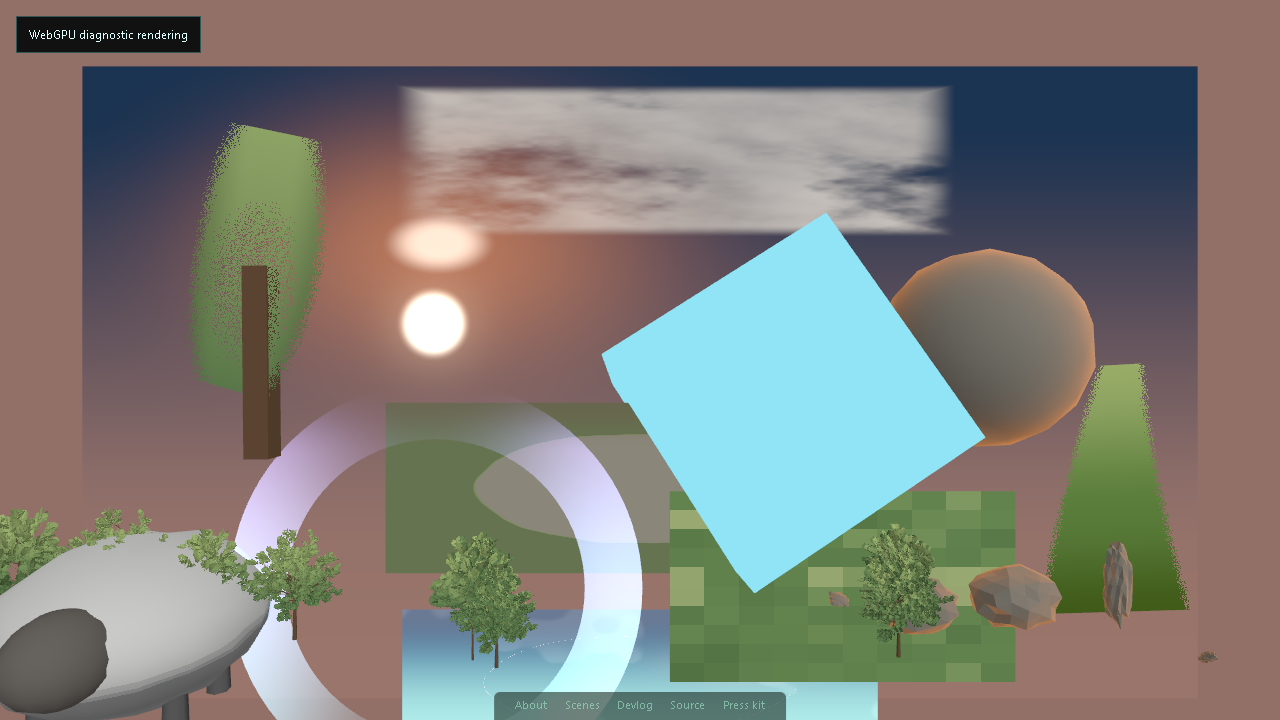
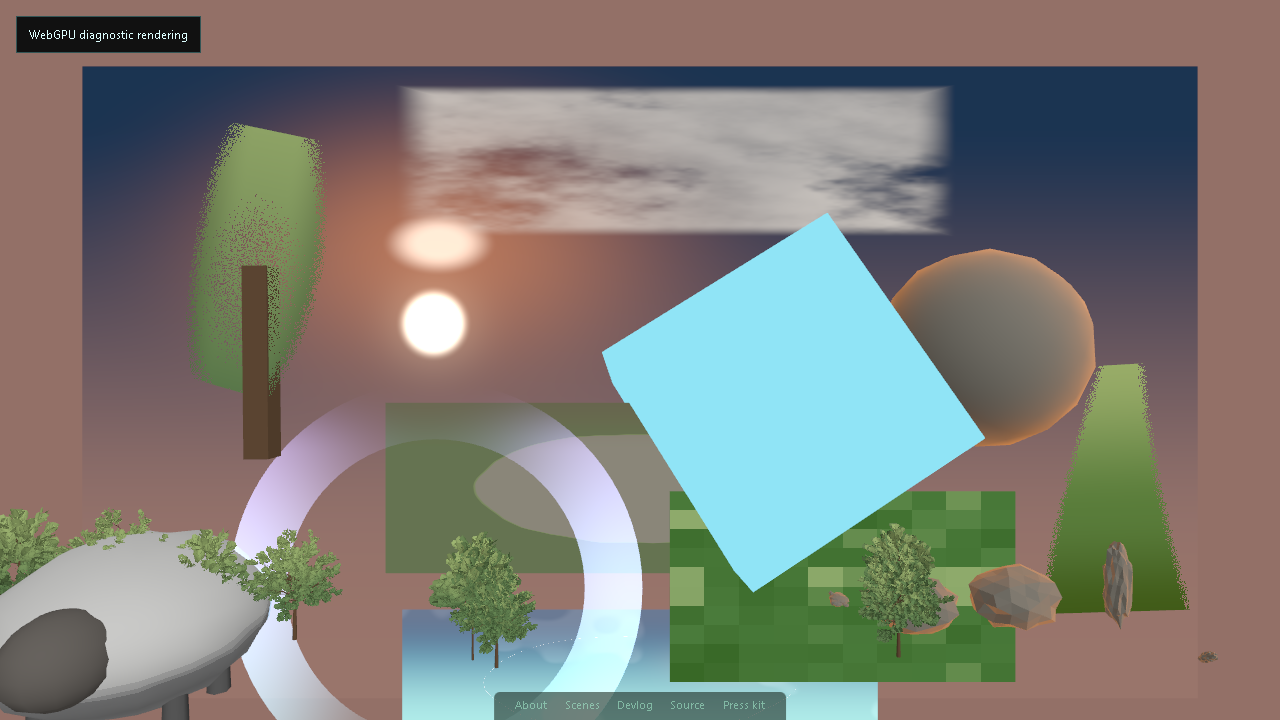
feat(konveyor): bind meadow diagnostic fog

diff --git a/js/diagnostics/webgpuDiagnostic.js b/js/diagnostics/webgpuDiagnostic.js
@@ -180,23 +180,27 @@ function createPortalRingNodeMaterial({ MeshBasicNodeMaterial, AdditiveBlending,
     return material;
 }
 
-function createMeadowQuadNodeMaterial({ MeshLambertNodeMaterial, DoubleSide, TSL }) {
-    const { dot, floor, fract, mix, sin, smoothstep, uv, vec2, vec3 } = TSL;
-    const baseColor = vec3(0.176, 0.345, 0.118);
-    const midColor = vec3(0.318, 0.565, 0.188);
-    const tipColor = vec3(0.643, 0.792, 0.337);
-    const muv = uv().mul(5.0);
-    const hashVector = vec2(127.1, 311.7);
+function createMeadowQuadNodeMaterial({ MeshLambertNodeMaterial, DoubleSide, TSL }, meadowQuad) {
+    const { dot, floor, fract, length, mix, positionView, sin, smoothstep, uv, vec2, vec3 } = TSL;
+    const baseColor = vec3(...meadowQuad.baseColor);
+    const midColor = vec3(...meadowQuad.midColor);
+    const tipColor = vec3(...meadowQuad.tipColor);
+    const muv = uv().mul(meadowQuad.uvCellsPerChunk);
+    const hashVector = vec2(...meadowQuad.noiseHashVector);
     const n1 = fract(sin(dot(floor(muv), hashVector)).mul(43758.5453));
     const n2 = fract(sin(dot(floor(muv.mul(2.0)), hashVector)).mul(43758.5453));
     const blend = mix(n1, n2, 0.5);
-
-    const material = new MeshLambertNodeMaterial();
-    material.colorNode = mix(
+    const meadowColor = mix(
         mix(baseColor, midColor, blend),
         tipColor,
         smoothstep(0.6, 0.95, blend)
     );
+    const fogBlend = smoothstep(meadowQuad.fogNear, meadowQuad.fogFar, length(positionView))
+        .mul(meadowQuad.fogStrength);
+
+    const material = new MeshLambertNodeMaterial();
+    material.name = 'konveyor-node-meadow-quad';
+    material.colorNode = mix(meadowColor, vec3(...meadowQuad.fogColor), fogBlend);
     material.side = DoubleSide;
     return material;
 }
@@ -268,6 +272,23 @@ export function createRockRimDiagnosticState(skyFog = createSkyFogDiagnosticStat
         rimStrength: 0.48,
         rimPower: 2.0,
         sunColorSource: 'skyFog.sunColor',
+    };
+}
+
+export function createMeadowQuadDiagnosticState(skyFog = createSkyFogDiagnosticState()) {
+    return {
+        source: 'GrassSystem.createMeadowQuadMaterial',
+        baseColor: [0.08, 0.28, 0.04],
+        midColor: [0.18, 0.48, 0.12],
+        tipColor: [0.55, 0.82, 0.30],
+        uvCellsPerChunk: 5.0,
+        noiseHashVector: [127.1, 311.7],
+        noiseOctaves: [1, 2],
+        fogColor: skyFog.fogColor,
+        fogNear: skyFog.fogNear,
+        fogFar: skyFog.fogFar,
+        fogStrength: 0.55,
+        farRingLod: 'meadow-quad',
     };
 }
 
@@ -873,6 +894,7 @@ function createTreeBranchNodeMaterial({ MeshStandardNodeMaterial, TSL }) {
 export async function bootWebGpuDiagnostic() {
     const skyFog = createSkyFogDiagnosticState();
     const rockRim = createRockRimDiagnosticState(skyFog);
+    const meadowQuad = createMeadowQuadDiagnosticState(skyFog);
     const animeWater = createAnimeWaterDiagnosticState(skyFog);
     const terrainHeightfield = createTerrainHeightfieldDiagnosticState(skyFog);
     const treeLeaf = createTreeLeafDiagnosticState();
@@ -888,6 +910,7 @@ export async function bootWebGpuDiagnostic() {
         islands: ['sun-billboard', 'portal-ring', 'meadow-quad', 'cloud-plane', 'sky-fog', 'rock-rim', 'tree-leaf', 'grass-blade', 'sheep-wool', 'kiln-impostor', 'anime-water', 'terrain-heightfield', 'glb-material-replacement', 'runtime-glb-material-proof', 'runtime-glb-rendered-clones', 'production-placement-preview', 'production-instanced-tree-preview', 'diagnostic-rock-instancing-preview', 'production-effect-adapter'],
         skyFog,
         rockRim,
+        meadowQuad,
         animeWater,
         terrainHeightfield,
         treeLeaf,
@@ -1101,7 +1124,7 @@ export async function bootWebGpuDiagnostic() {
 
     const meadow = new Mesh(
         new PlaneGeometry(1.45, 0.8, 1, 1),
-        createMeadowQuadNodeMaterial({ MeshLambertNodeMaterial, DoubleSide, TSL })
+        createMeadowQuadNodeMaterial({ MeshLambertNodeMaterial, DoubleSide, TSL }, meadowQuad)
     );
     meadow.position.set(0.85, -0.75, 0.1);
     scene.add(meadow);

diff --git a/tests/webgpu-diagnostic.spec.js b/tests/webgpu-diagnostic.spec.js
@@ -6,6 +6,7 @@ import {
   createAnimeWaterDiagnosticState,
   createGrassBladeDiagnosticState,
   createKilnImpostorDiagnosticState,
+  createMeadowQuadDiagnosticState,
   createRockRimDiagnosticState,
   createSheepWoolDiagnosticState,
   createSkyFogDiagnosticState,
@@ -90,6 +91,23 @@ describe('webgpu diagnostic sky fog state', () => {
     expect(rockRim.sunColorSource).toBe('skyFog.sunColor');
     expect(rockRim.rimStrength).toBeGreaterThan(0);
     expect(rockRim.rimPower).toBeGreaterThan(1);
+  });
+
+  it('keeps the meadow quad diagnostic tied to production far-ring color and fog inputs', () => {
+    const skyFog = createSkyFogDiagnosticState();
+    const meadowQuad = createMeadowQuadDiagnosticState(skyFog);
+
+    expect(meadowQuad.source).toBe('GrassSystem.createMeadowQuadMaterial');
+    expect(meadowQuad.baseColor).toEqual([0.08, 0.28, 0.04]);
+    expect(meadowQuad.midColor).toEqual([0.18, 0.48, 0.12]);
+    expect(meadowQuad.tipColor).toEqual([0.55, 0.82, 0.30]);
+    expect(meadowQuad.uvCellsPerChunk).toBe(5.0);
+    expect(meadowQuad.noiseHashVector).toEqual([127.1, 311.7]);
+    expect(meadowQuad.noiseOctaves).toEqual([1, 2]);
+    expect(meadowQuad.fogColor).toBe(skyFog.fogColor);
+    expect(meadowQuad.fogNear).toBe(skyFog.fogNear);
+    expect(meadowQuad.fogFar).toBe(skyFog.fogFar);
+    expect(meadowQuad.farRingLod).toBe('meadow-quad');
   });
 
   it('keeps anime water diagnostic inputs tied to production palette and atmosphere packet', () => {

diff --git a/docs/archive/research/konveyor-shader-surface-inventory-2026-05-14.md b/docs/archive/research/konveyor-shader-surface-inventory-2026-05-14.md
@@ -13,9 +13,11 @@ plus three patch chains that mutate Three's generated GLSL through
 The safest first production-adjacent island was `SunBillboard`: it is small,
 cosmetic, has no scene data dependency, and maps cleanly to a
 `MeshBasicNodeMaterial`/TSL expression. The sun billboard, portal ring,
-meadow-quad, cloud-plane, and sky/fog formulas are now ported inside the
-diagnostic island, and sun/portal now have a production-facing effect material
-adapter behind `?renderer=webgpu&konveyorEffects=1` plus explicit factories.
+cloud-plane, and sky/fog formulas are now ported inside the diagnostic island,
+and the meadow-quad island now uses the production grass default colors,
+far-ring UV hash scale, and CPU sky/fog packet. Sun/portal now have a
+production-facing effect material adapter behind
+`?renderer=webgpu&konveyorEffects=1` plus explicit factories.
 The rock-rim fresnel formula is also ported as a
 diagnostic `MeshStandardNodeMaterial` island driven by the CPU sky/fog sun
 color packet. A diagnostic tree-leaf island now covers wind displacement,
@@ -90,7 +92,7 @@ terrain, grass, water, sheep, or Kiln impostors.
 |---|---|---|---|---|
 | Tree wind plus occluder fade | `js/world/shaderPatches.js`, `js/shaders/OccluderFadePatch.js` | Tree GLB leaf `MeshStandardMaterial` instances. | Adds wind sway, alpha hash, and camera-to-dog dither fade. | Diagnostic leaf TSL material now proves wind, alpha-hash posture, and occluder fade inputs. Production replacement still needs GLB material ownership or a normalization pass. Cannot carry `onBeforeCompile` into WebGPU. |
 | Rock rim light | `js/world/shaderPatches.js` | Rock GLB materials. | Adds stylized fresnel rim keyed to atmosphere sun color. | Formula now exists in the diagnostic TSL harness as `MeshStandardNodeMaterial`; production wiring still needs GLB material ownership and replacement strategy for the current patch chain. |
-| Meadow quad tint | `js/GrassSystem.js` | Far-ring `MeshLambertMaterial`. | Replaces flat distant grass with UV-noise color variance. | Formula now exists in the diagnostic TSL harness as `MeshLambertNodeMaterial`. Production wiring still needs fog and far-ring screenshots. |
+| Meadow quad tint | `js/GrassSystem.js` | Far-ring `MeshLambertMaterial`. | Replaces flat distant grass with UV-noise color variance. | Formula now exists in the diagnostic TSL harness as `MeshLambertNodeMaterial` using production default grass colors, the same 5-cell UV hash scale, and CPU sky/fog input. Production wiring and far-ring scene screenshots remain deferred. |
 
 ## GLB Material Ownership Evidence
 
@@ -197,9 +199,11 @@ comments:
    production generator. Keep
    production `InstancedMesh2` on the WebGL path for now; move to another
    smaller material island or the measured rock-generation extraction while
-   keeping current WebGL `onBeforeCompile` patches as default. The sun/portal
-   effect adapter is now available for the lowest-risk production-adjacent
-   wiring proof, but it is not yet a production scene WebGPU boot.
+   keeping current WebGL `onBeforeCompile` patches as default. The meadow-quad
+   diagnostic now records production default grass colors and CPU sky/fog input,
+   but it is still diagnostic-only. The sun/portal effect adapter is now
+   available for the lowest-risk production-adjacent wiring proof, but it is
+   not yet a production scene WebGPU boot.
 2. Keep sky/fog production wiring behind parity evidence for analytic colors,
    preset screenshots, and fog consumers.
 3. Keep water production wiring deferred until the diagnostic heightfield

diff --git a/docs/konveyor-autonomous-run.md b/docs/konveyor-autonomous-run.md
@@ -75,8 +75,10 @@ WebGPU now has a diagnostic island, not a production renderer:
   `fallbackReason: "diagnostic-flag-required"`.
 - [`archive/research/konveyor-shader-surface-inventory-2026-05-14.md`](archive/research/konveyor-shader-surface-inventory-2026-05-14.md)
   ranks the current GLSL and `onBeforeCompile` migration surface. The sun
-  billboard, portal ring, meadow-quad, cloud-plane, sky/fog, and anime-water formulas are
-  now ported inside the diagnostic island. A terrain-heightfield diagnostic
+  billboard, portal ring, cloud-plane, sky/fog, and anime-water formulas are
+  now ported inside the diagnostic island. The meadow-quad diagnostic now uses
+  production default grass colors, the far-ring UV hash scale, and CPU sky/fog
+  input. A terrain-heightfield diagnostic
   island now samples the real Rolling Hills heightfield texture for
   height-based ground color and fog input. The rock-rim fresnel formula is
   also ported as the first `onBeforeCompile` replacement island, and a
@@ -161,7 +163,10 @@ Recommended order:
    fog-color inputs, and a non-filtered float texture loaded from the real
    Rolling Hills heightfield. The terrain-heightfield diagnostic island reuses
    that texture for height-based ground color and fog input while deferring
-   production scene replacement. The grass-blade diagnostic island now covers
+   production scene replacement. The meadow-quad diagnostic now records the
+   production far-ring default colors, UV hash scale, and CPU sky/fog input
+   while leaving production far-ring wiring and scene screenshots deferred. The
+   grass-blade diagnostic island now covers
    production default gradient colors, analytic wind/gust/flutter displacement,
    alpha-hash posture, and sky/fog handoff while explicitly deferring
    interaction bending, distance fade, production instancing, and compute

diff --git a/progress.md b/progress.md
@@ -51,3 +51,4 @@ Current prompt for the next autonomous run: /goal On branch exp/konveyor-webgpu-
 - 2026-05-15: Added explicit renderer-mode evidence to the boot and probe contract. `?renderer=webgpu&diagnostic=1` reports effective `webgpu-diagnostic`, default URLs report effective `webgl`, and `?renderer=webgpu` without the diagnostic flag fails closed to WebGL with `fallbackReason: "diagnostic-flag-required"`.
 - 2026-05-15: Added a fail-closed production-facing effect material adapter for the already-proved sun billboard and portal ring TSL materials. The adapter requires `?renderer=webgpu&konveyorEffects=1` plus explicit factories; default WebGL effect `ShaderMaterial` construction remains untouched.
 - 2026-05-15: Replaced the fixed diagnostic rock transform samples with a diagnostic-only seeded scene-zone generator that mirrors production `RockPlacement` formation rules. It feeds the WebGPU native `THREE.InstancedMesh` rock proof without changing production `Math.random()` placement or shared obstacle state.
+- 2026-05-15: Tightened the meadow-quad WebGPU diagnostic to production far-ring inputs: default grass colors, 5-cell UV hash scale, two hash octaves, and the CPU sky/fog packet. Production `GrassSystem` and default WebGL remain untouched.

diff --git a/docs/konveyor-sds.md b/docs/konveyor-sds.md
@@ -52,8 +52,10 @@ As of 2026-05-14, SDS is not a WebGPU project yet.
   `window.__sdsRendererMode`: `?renderer=webgpu` without `diagnostic=1` remains
   effective WebGL with `fallbackReason: "diagnostic-flag-required"`. Current
   diagnostic islands cover the sun
-  billboard, portal ring, meadow quad, cloud plane, and a renderless sky/fog
-  CPU sample packet from `js/atmosphere/skyFogSamplePacket.js`, plus the
+  billboard, portal ring, cloud plane, and a renderless sky/fog
+  CPU sample packet from `js/atmosphere/skyFogSamplePacket.js`. The meadow
+  quad diagnostic now uses production default grass colors, the far-ring UV
+  hash scale, and the same CPU sky/fog input. The diagnostic also covers the
   rock-rim fresnel formula, a tree-leaf wind/alpha/occluder proxy, and a
   diagnostic anime-water material covering palette, shoreline bands, foam,
   ripples, sun glint, fog input, and a non-filtered float texture loaded from
